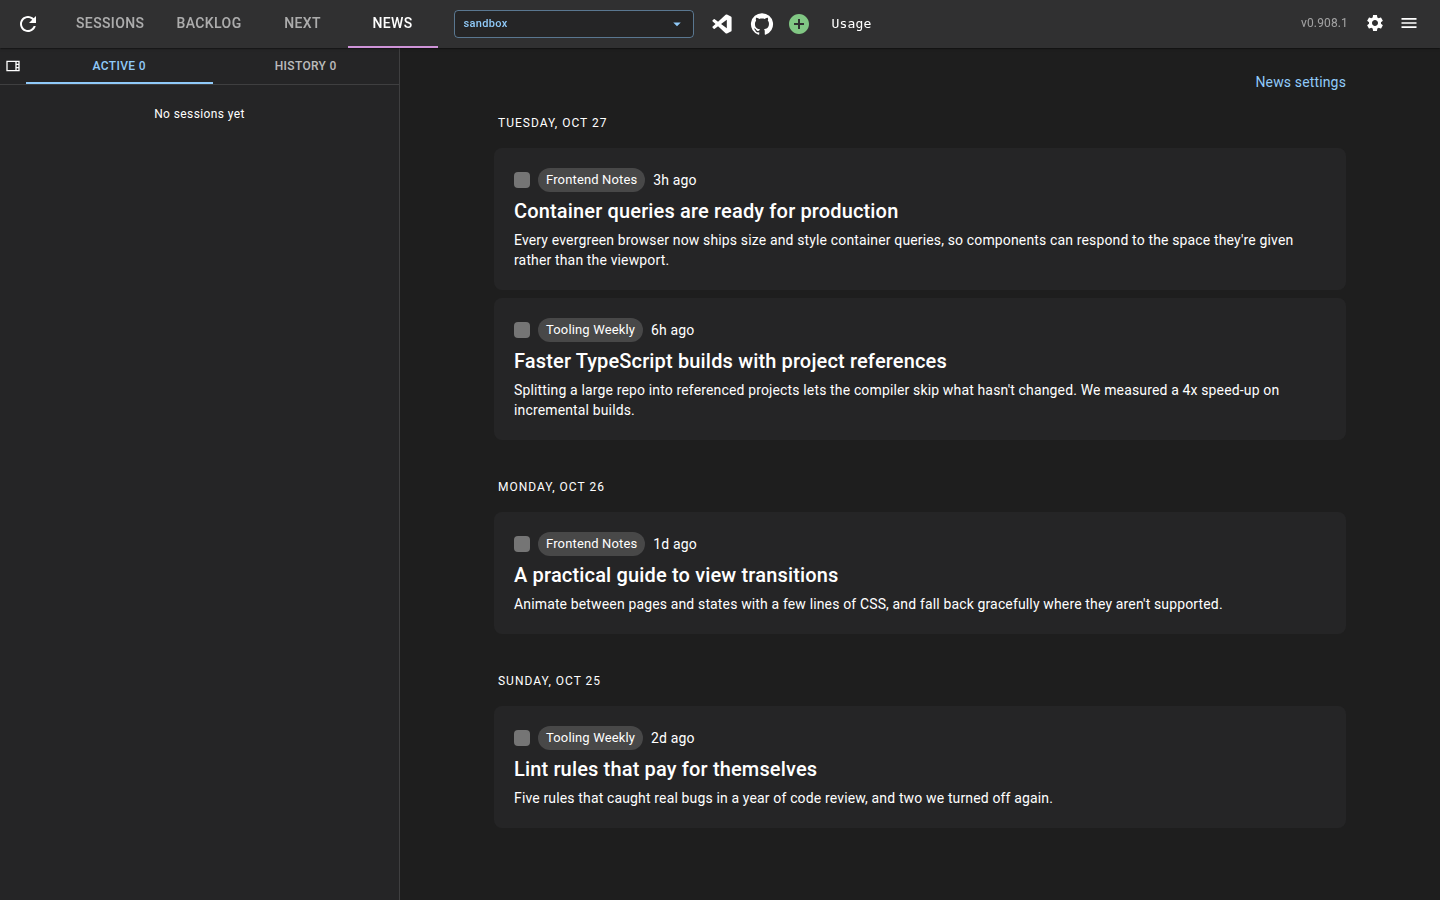
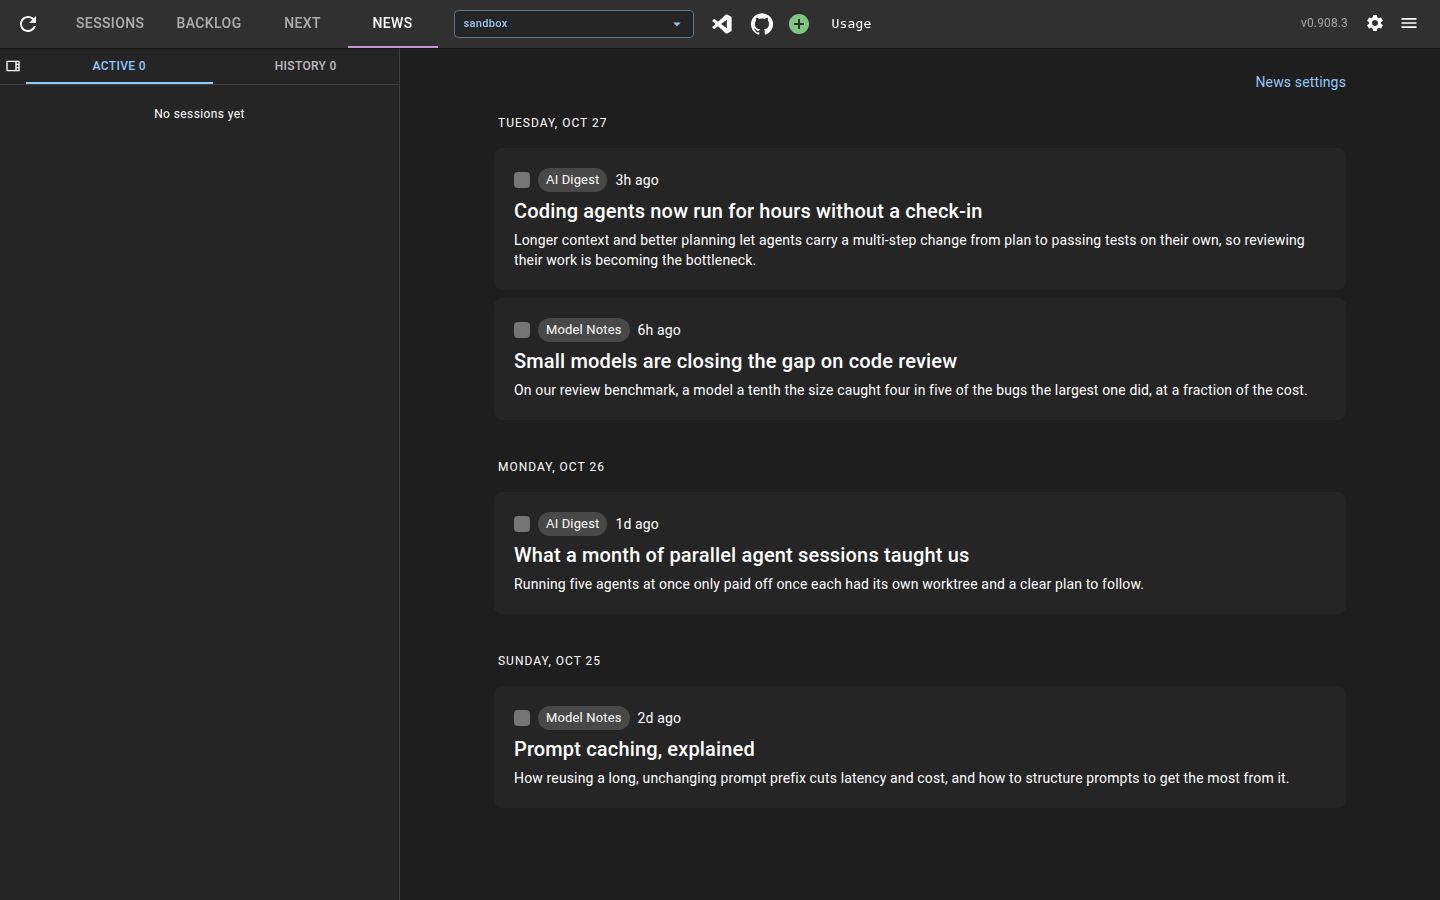
fix: news and backups docs feedback

diff --git a/docs/src/content/docs/backups.md b/docs/src/content/docs/backups.md
@@ -6,6 +6,15 @@ order: 4
 covers:
   - route:/backups
 screenshots:
+  - file: backups-link.png
+    alt: The Last backed up link at the top of the backlog
+    route: /backlog
+    scene: backups
+    waitFor: text=Last backed up
+    crop: "xpath=//h5[normalize-space()='Backlog']/.."
+    cropPadding: 16
+    highlight:
+      - text=Last backed up
   - file: backups.png
     alt: The Backups page, listing recent database dumps with their time, file, size and duration
     route: /backups
@@ -16,8 +25,14 @@ screenshots:
       height: 640
 ---
 
-The **Backups** page lists the backups of the assist database, which holds every repo's backlog, newest first. Open it from **Last backed up** at the top of the [backlog](../backlog/), which appears once there's a backup. Hover a file name for its full path.
+The **Backups** page lists the backups of the assist database, which holds every repo's backlog, newest first.
+
+To open it, go to the [Backlog](../backlog/) tab (:kbd[Alt+2]) and click **Last backed up** at the top right. The link appears once you've taken a backup.
+
+::screenshot{file="backups-link.png"}
 
 ::screenshot{file="backups.png"}
+
+Hover a file name for its full path.
 
 Backups are taken, scheduled and restored from the command line, see [assist backup](../cli-backup/).

diff --git a/docs/src/content/docs/news.md b/docs/src/content/docs/news.md
@@ -8,20 +8,20 @@ covers:
   - config:news.showInNav
 screenshots:
   - file: news.png
-    alt: The News page, listing posts from two feeds under date headings
+    alt: The News page, listing AI news posts from two feeds under date headings
     route: /news
     scene: news
-    waitFor: text=Container queries are ready for production
+    waitFor: text=Coding agents now run for hours without a check-in
     viewport:
       width: 1440
       height: 900
 ---
 
-The **News** page reads the RSS and Atom feeds you've added, newest first. Click a post to open it.
+Waiting on agents can be boring, and the **News** page gives you something to read in the meantime, like the latest in AI. It collects posts from the RSS and Atom feeds you've added, newest first. Click a post to open it.
 
 ::screenshot{file="news.png"}
 
-Feeds are added with [`assist news add`](../cli-news/). Restart the web server to load posts from a feed you've just added.
+Add feeds with [`assist news add`](../cli-news/). Restart the web server to load posts from a feed you've just added.
 
 The page is always at `/news`. To also show a **News** tab in the toolbar:
 
